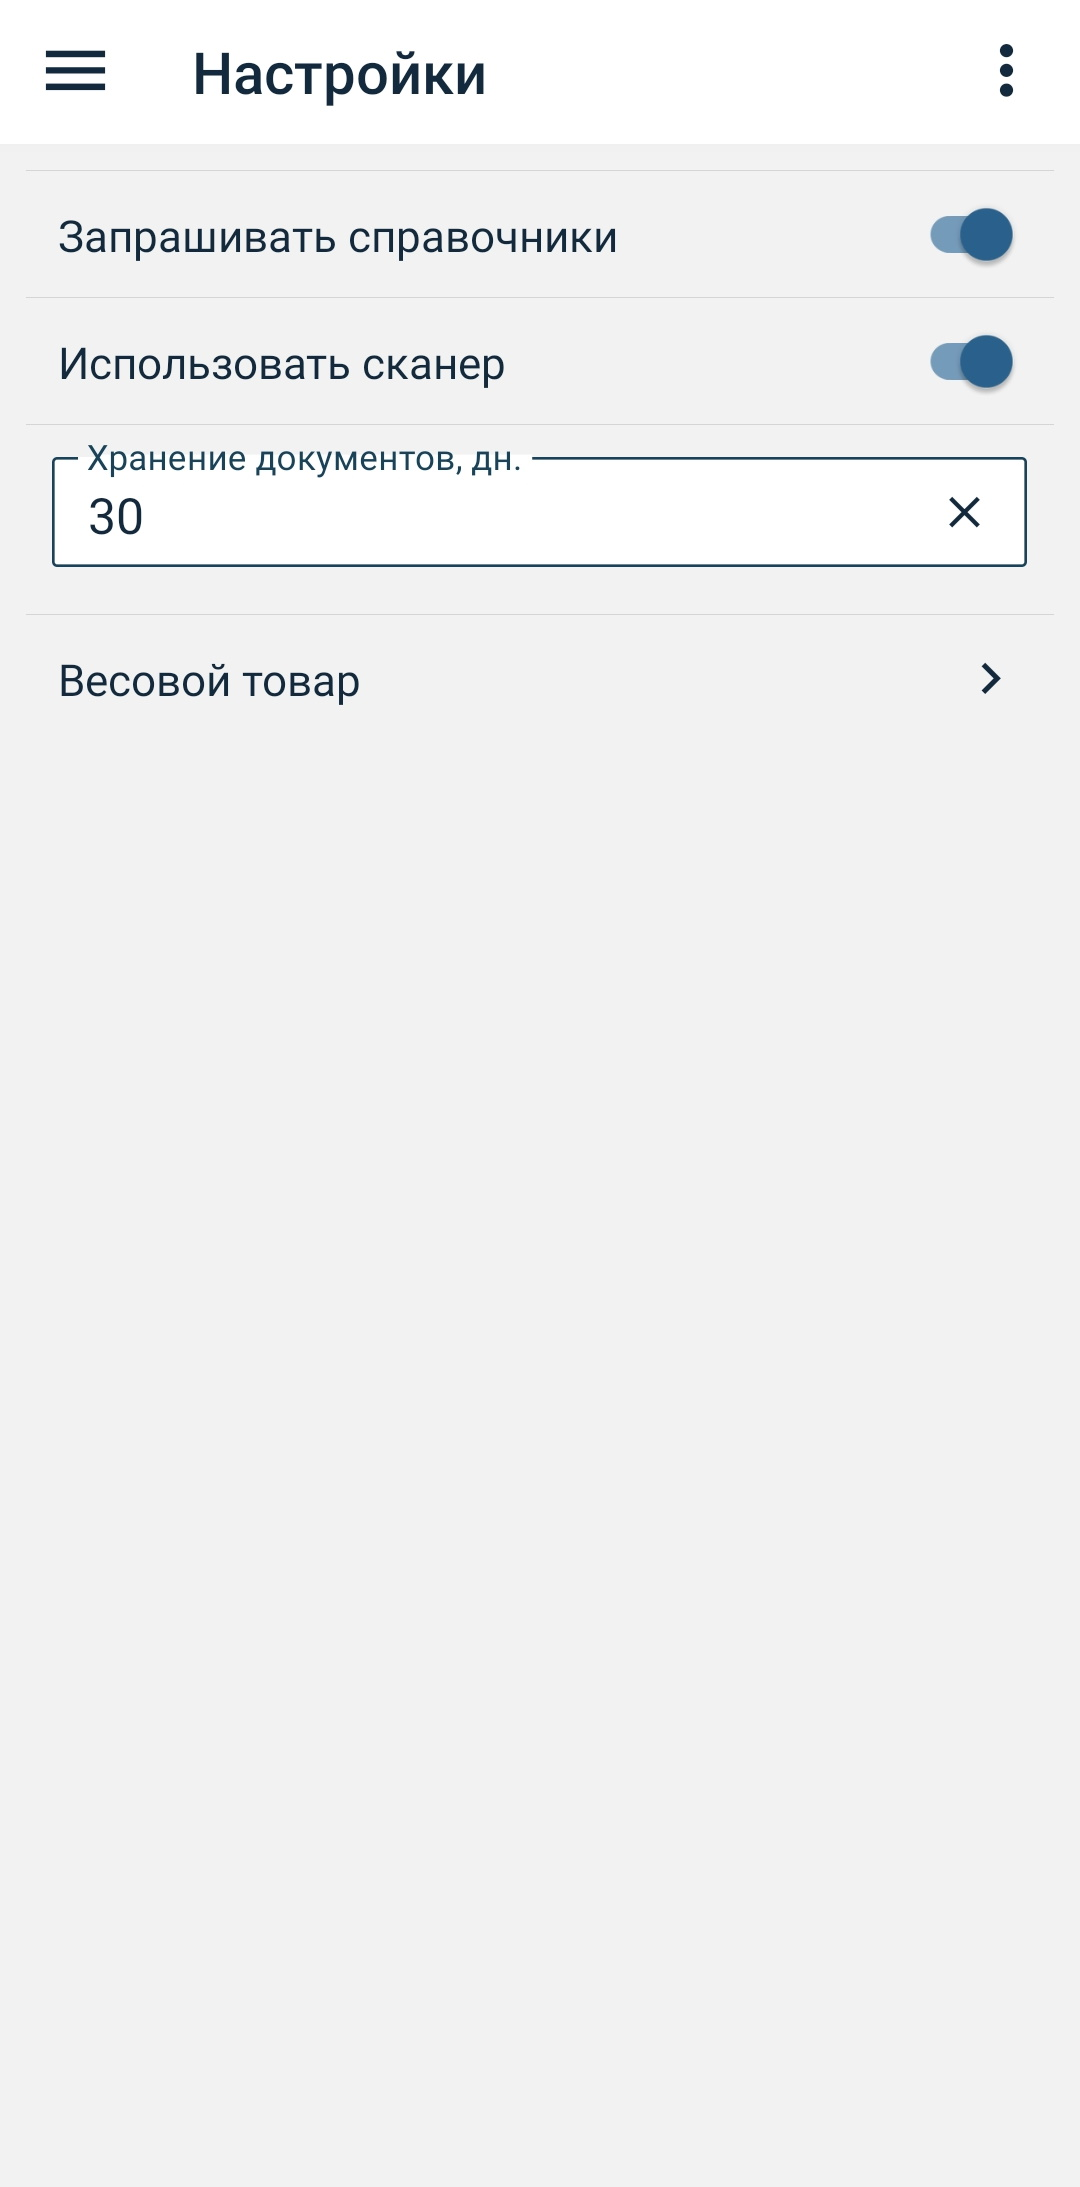
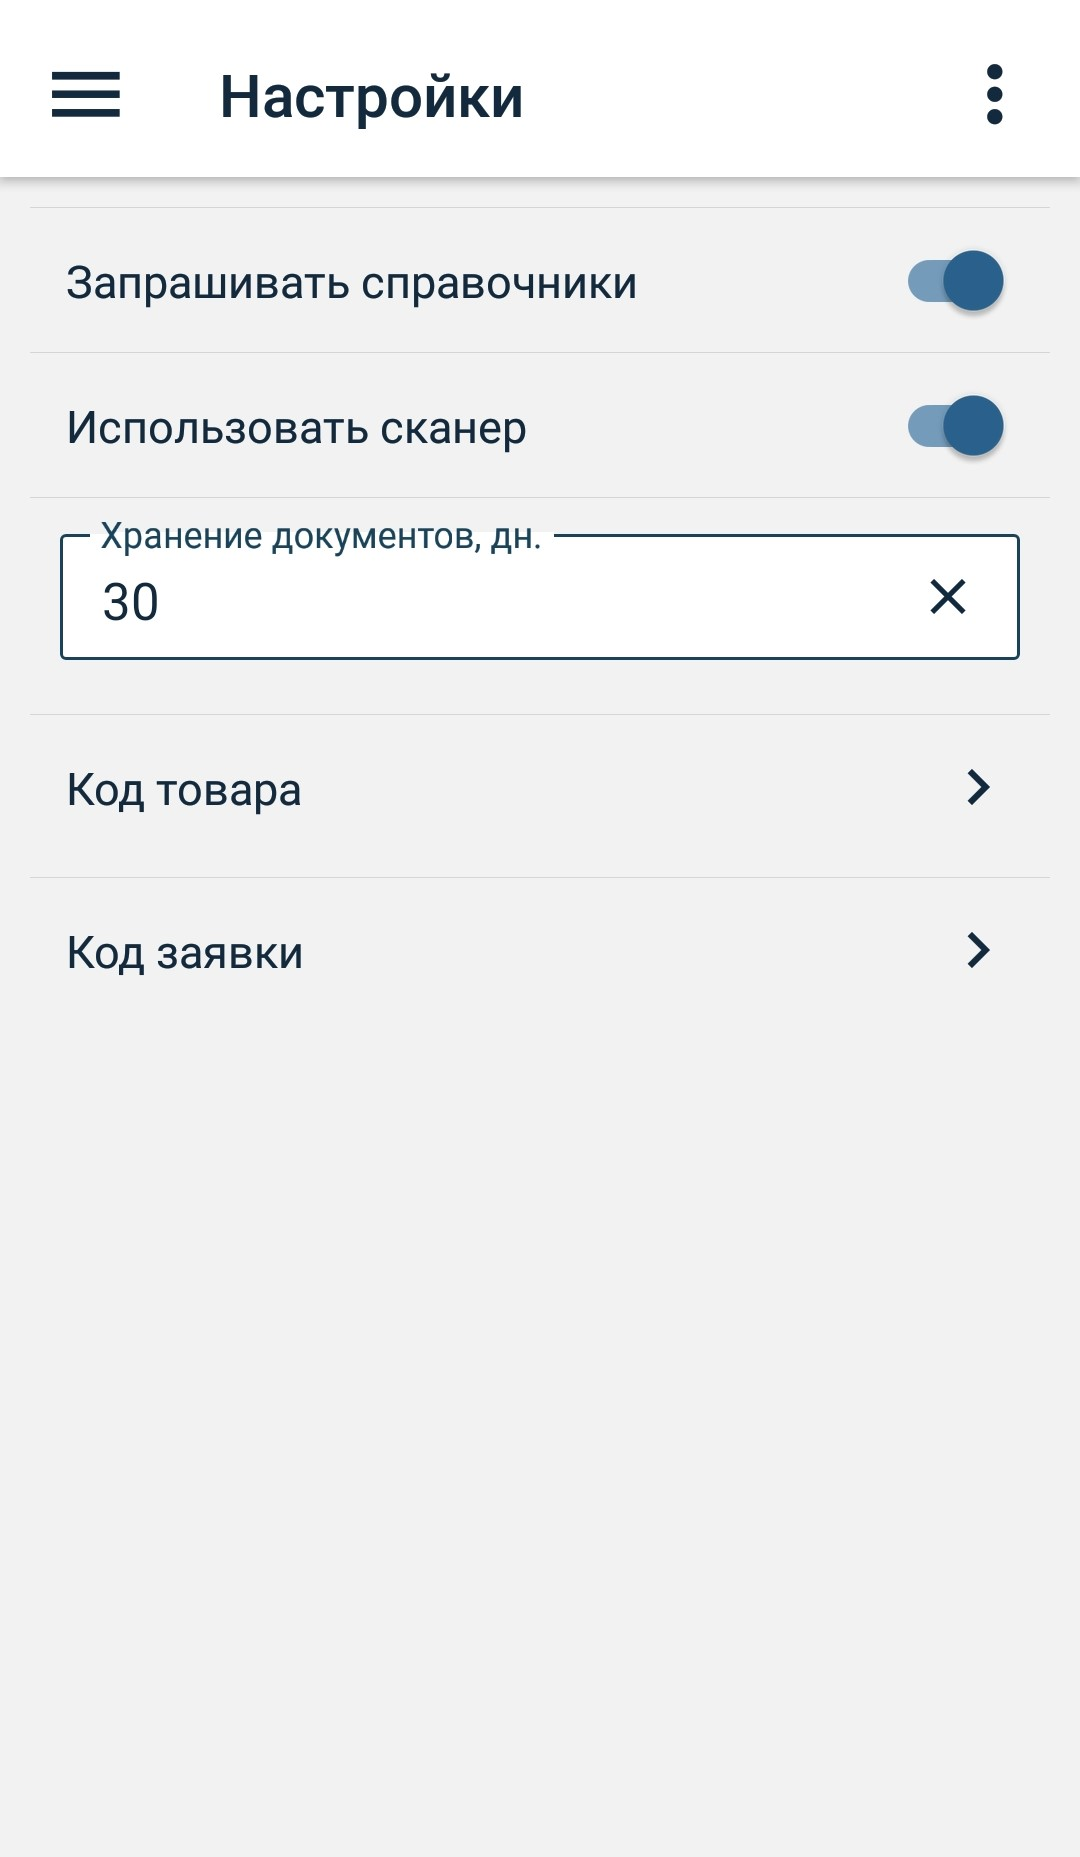
feat: doc for otves

diff --git a/docs/gdmn-fp-movement/docs/README.md b/docs/gdmn-fp-movement/docs/README.md
@@ -17,7 +17,7 @@
 
 В данном режиме можно ознакомиться с функционалом приложения offline (без подключения к базе данных) на демо данных.
 
-Загрузка данных и работа в приложении пояснена далее в пунктах 3-7.
+Загрузка данных и работа в приложении пояснена далее в пунктах 3-9.
 
 Выйти из демо режима можно, открыв боковую панель нажатием на иконку меню **≡**, находящуюся в верхнем углу приложения слева, или смахнув пальцем вправо с левого края устройства.
 
@@ -72,18 +72,37 @@
 |Использовать сканер|_Если указан_, то для сканирования штрихкода будет использован сканер терминала сбора данных.<br> _Если не указан_, то сканировать штрихкоды необходимо при помощи камеры устройства|
 |Время хранения документов в архиве| Количество дней хранения обработанных документов в приложении, отсчитываемое от даты документа|
 
-Настройки весового товара:
+Код товара:
 
 | Параметр | Описание |
 | ------------ | -------- |
-Идентификатор весового товара| Число (обычно это 22 или 23), которое означает, что штрихкод, начинающийся на это число, относится к весовому товару |
-|Количество символов для кода товара| Число, которое определяет идентификатор товара в штрихкоде для поиска в справочнике |
-|Количество символов для веса (в гр.)| Число, задающее количество символов в штрихкоде для определения веса товара|
+Мин. длина штрихкода| Число, которое означает минимальное количество символов для того, чтобы код опознавался как корректный |
+|Вес товара, гр| Число, задающее количество символов в штрихкоде для определения веса товара в гр.|
+|Дата (число)| Число, задающее количество символов в штрихкоде для определения числа в дате производства|
+|Дата (месяц)| Число, задающее количество символов в штрихкоде для определения месяца в дате производства|
+|Дата (год)| Число, задающее количество символов в штрихкоде для определения года в дате производства|
+|Время (часы минуты)| Число, задающее количество символов в штрихкоде для определения времени производства|
+|Код товара| Число, задающее количество символов в штрихкоде для определения кода товара в справочнике|
+|Номер взешивания| Число, задающее количество символов в штрихкоде для определения порядка взыешивания в ящике(необходимо для подсчета количества тары в поддоне либо для однозначной идентификации штрихкода)|
+|Тип взвешивания| Число, задающее количество символов в штрихкоде для определения типа взывешивания(поддон, ящик, штука)|
+|Номер партии| Число, задающее количество символов в штрихкоде для определения партии товара|
+
+Код заявки:
+
+| Параметр | Описание |
+| ------------ | -------- |
+Мин. длина штрихкода| Число, которое означает минимальное количество символов для того, чтобы код опознавался как корректный |
+|Код подразделения| Число, задающее количество символов в штрихкоде для определения кода подразделения, на которое делается заявка|
+|Дата (число)| Число, задающее количество символов в штрихкоде для определения числа в дате производства|
+|Дата (месяц)| Число, задающее количество символов в штрихкоде для определения месяца в дате производства|
+|Дата (год)| Число, задающее количество символов в штрихкоде для определения года в дате производства|
+|Идентификатор заявки| Число, задающее количество символов в штрихкоде для определения идентификатора заявки в ERP системе|
 
 
 По нажатию на иконку меню **≡**, расположенную в правом верхнем углу, можно вернуться к начальным настройкам, выбрав пункт **Установить настройки по умолчанию**.
 
-<img src="img/8.Settings/8.BaseSettings.jpg" alt="drawing" height="400"/> <img src="img/8.Settings/8.Settings.jpg" alt="drawing" height="400"/> <img src="img/8.Settings/8.SettingsMenu.jpg" alt="drawing" height="400"/>
+<img src="img/8.Settings/8.BaseSettings.jpg" alt="drawing" height="400"/> <img src="img/8.Settings/8.SettingsShcode.jpg" alt="drawing" height="400"/> 
+<img src="img/8.Settings/8.SettingsOrderCode.jpg" alt="drawing" height="400"/><img src="img/8.Settings/8.SettingsMenu.jpg" alt="drawing" height="400"/>
 
 ## 3. Загрузка данных
 
@@ -144,7 +163,24 @@
 
 Уточнение: если вы производите сканирование штрихкодов исключительно с помощью камеры устройства, то в настройках приложения необходимо перевести параметр **Использовать сканер** в отрицательное положение.
 
-Сканирование на ТСД осуществляется нажатием кнопки сканирования на устройстве. По считанному штрихкоду товар добавляется в позицию, если товар из шрихкода найден в справочнике товаров. Если штрихкод некорректный или такой товар не найден в справочнике товаров, выводятся соотвестствующие сообщения. Если товар с таким штрихкодом уже есть в данном документе, выведется соответствующее сообщение и товар добавлен не будет.
+**Сканирование на ТСД** осуществляется нажатием кнопки сканирования на устройстве. По считанному штрихкоду товар добавляется в позицию, если товар из шрихкода найден в справочнике товаров. Если штрихкод некорректный или такой товар не найден в справочнике товаров, выводятся соотвестствующие сообщения. Если товар с таким штрихкодом уже есть в данном документе, выведется соответствующее сообщение и товар добавлен не будет.
+
+**Сканирование с камеры устройства** Нажимаем на иконку штрихкода <img src="img/10.Scanner/10.IconScanner.jpg" alt="drawing" height="22"/> в верхнем правом углу и переходим на экран сканирования товара.
+<img src="img/10.Scanner/10.ScanIcon.jpg" alt="drawing" height="400"/>
+
+Экран сканирования на мобильном устройстве:
+
+<img src="img/10.Scanner/10.Scan.jpg" alt="drawing" height="400"/> 
+
+Сканируем штрихкод, на экране в синем прямоугольнике показывается информация об отсканированном товаре. Подтверждаем добавление товара в позицию нажатием на синий прямоугольник с данными o товаре. По окончании создания документа выходим из режима сканирования.
+
+Если отсканированный штрихкод не найден в справочнике, то на экране появится сообщение, что отсканированный товар не найден в справочнике и будет предложено пересканировать:
+
+<img src="img/10.Scanner/10.ScanSuccess.jpg" alt="drawing" height="400"/>
+<img src="img/10.Scanner/10.ScanUnknown.jpg" alt="drawing" height="400"/>
+
+В случае, если штрихкод по каким-то причинам поврежден и не считывется, его можно ввести вручную, нажав иконку 
+<img src="img/10.Scanner/10.ScanHand.jpg" alt="drawing" height="22"/> в верхнем правом углу экрана сканирования. На экране появится диалоговое окно для ввода штрихкода вручную.
 
 #### _Добавление товара вручную_
 
@@ -225,7 +261,24 @@
 | Отправлено           | Документы со статусом **Отправлен**|
 | Обработано           | Документы со статусом **Обработан успешно**|
 
-## 6. Профиль
+## 6. Отвес
+
+Данная опция предназаначена для создания отвес-накладных при отгрузке товаров в магазины фирменной торговли либо сторонним клиентам без предварительной заявки.
+### Cоздание документа
+
+По нажатию на иконку **+** в верхнем правом углу переходим на экран добавления документа.
+
+Обязательные поля для заполнения: **Номер**, **Дата** и поле **Подразделение**. 
+
+Если в профиле пользователя указано подразделение по умолчанию, то поле **Подразделение** будет заполнено по умолчанию. 
+
+<img src="img/6.Shipment/6.AddFreeShipment.jpg" alt="drawing" height="400"/> 
+
+После заполнения данных документ сохраняем, нажав на иконку **✓** в правом верхнем углу.
+
+Во всем остальном работа с документом **Отвес** в мобильном приложении идентична работе с документом **Перемещение**, описанным выше.
+
+## 8. Профиль
 
 Экран **Профиль** содержит информацию о пользователе и об устройстве. Также здесь можно выйти из учетной записи пользователя.
 
@@ -236,7 +289,7 @@
 <img src="img/9.Profile/9.Profile.jpg" alt="drawing" height="400"/> <img src="img/9.Profile/9.ProfileDemo.jpg" alt="drawing" height="400"/> <img src="img/9.Profile/9.ClearData.jpg" alt="drawing" height="400"/>
 
 
-## 7. Сканирование
+## 9. Сканирование
 
 Уточнение: если вы производите сканирование штрихкодов исключительно с помощью камеры устройства, то в настройках приложения необходимо перевести параметр **Использовать сканер** в отрицательное положение.
 
